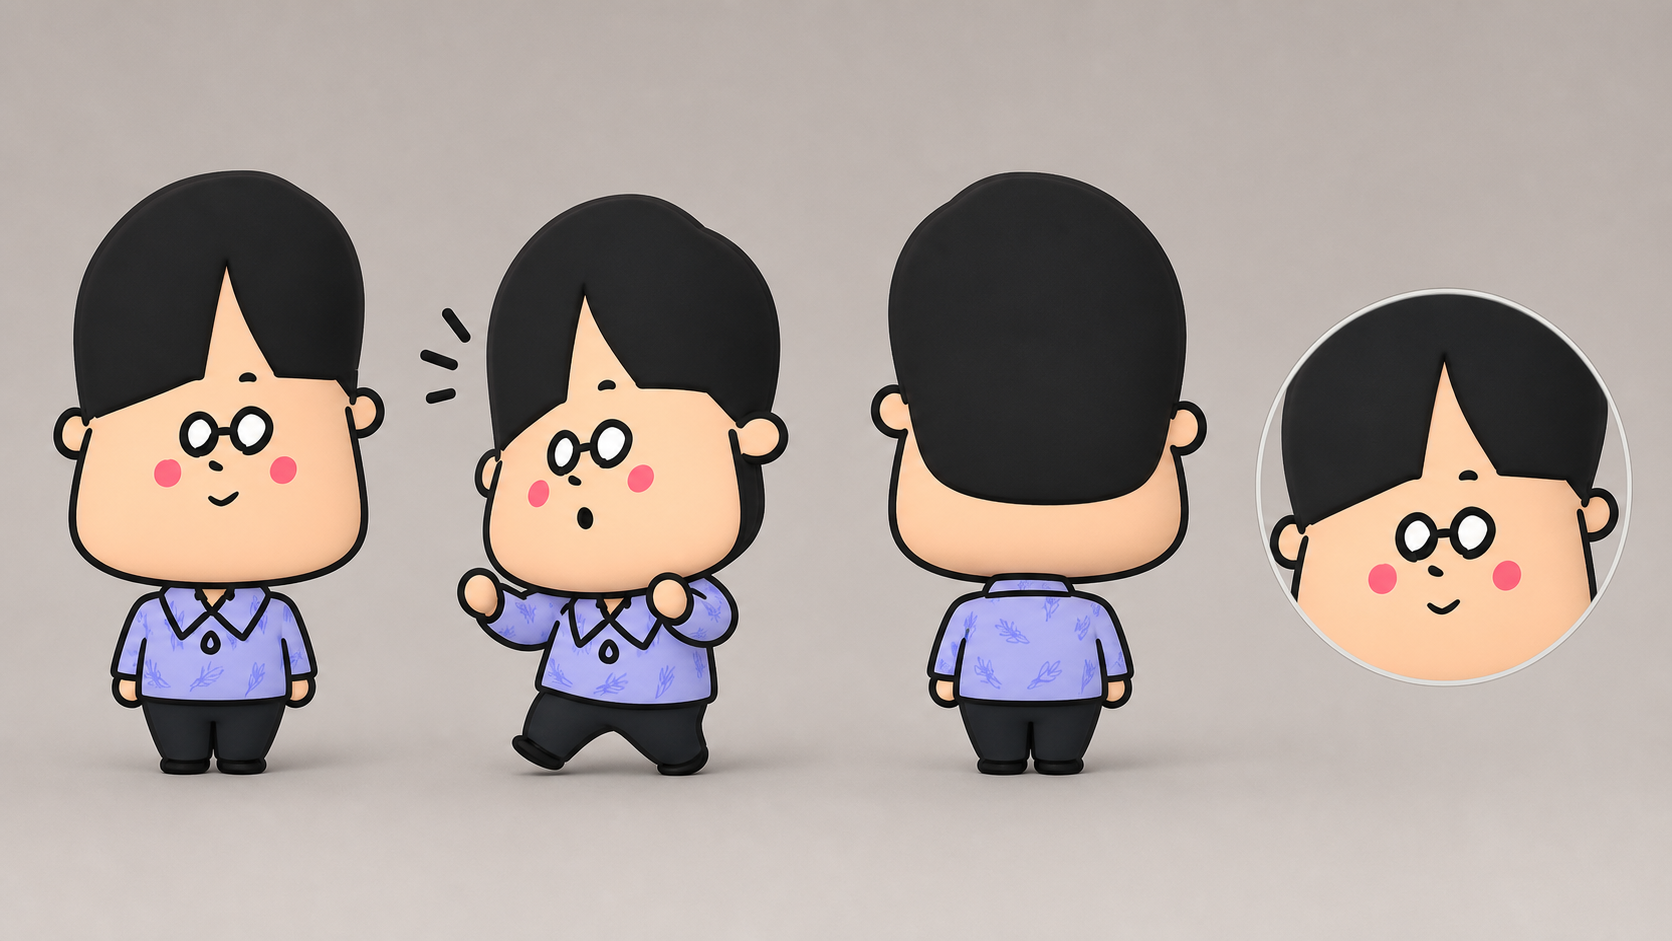
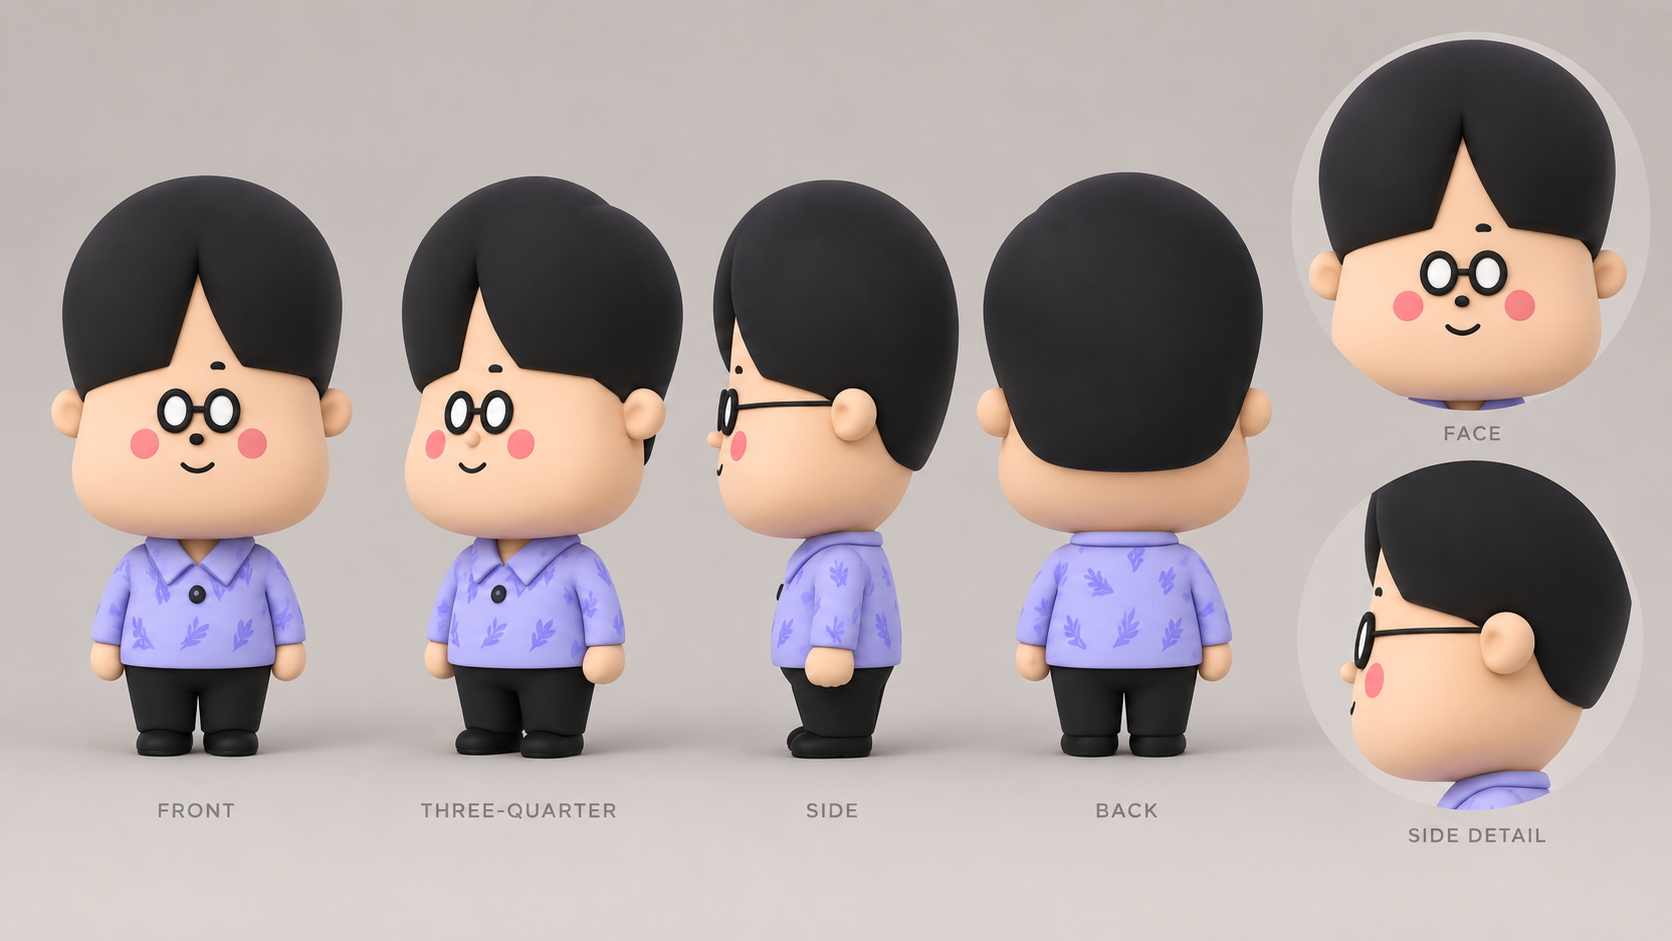
Remove outline geometry from Yametaro video character sheet

diff --git a/03_SCRIPTS/00_TEMPLATES/characters/source_prompts/character_yametaro_basic_sheet.md b/03_SCRIPTS/00_TEMPLATES/characters/source_prompts/character_yametaro_basic_sheet.md
@@ -1,0 +1,23 @@
+# やめ太郎・通常キャラクターシート（輪郭線なし）
+
+2026-09-09、ユーザー指定による更新。built-in image_gen使用。
+正本: `../character_yametaro_basic_sheet.png`
+
+## 目的と維持項目
+
+動画で顔の後ろが黒い板・帯になる現象を受け、2Dの黒い輪郭線を除去。顔・耳・顎・うなじを連続した肌色の立体として明示。黒髪と丸眼鏡は維持。人物同一性・頭身・紫の葉柄シャツを保ち、可愛さの増強や写実的人間化は行わない。
+正面・斜め・横・背面、正面顔アップ・横顔詳細。黒い頬縁や縦方向の眼鏡ストラップがないこと、横顔の肌色連続性を目視確認。動画生成時の安定性は未検証。
+
+## 履歴
+
+入力参照は更新前の通常シート。旧版はGit履歴およびエピソード65の`character_yametaro_basic_sheet.png`に残る。エピソード65のv1/v2入力・manifestは変更しない。次回制作では更新済みテンプレートを新しい入力名へコピーし、既存生成記録を上書きしない。
+旧toy_diorama_3d版にも濃色輪郭があるため、輪郭なし動画制作の代用参照にしない。
+
+## 生成プロンプト
+
+Edit the supplied Yametaro basic character reference into an updated definitive reusable character sheet for 3D video generation. Preserve this EXACT recognizable character and the existing proportions, do not redesign him or increase cuteness. The specific correction is to REMOVE ALL drawn black contour outlines and black edge extrusion from face, ears, jaw, neck, hands and shirt. Existing black outlines must NOT become black geometry, straps, backing plates or black surfaces on the side or behind the face.
+Identity: adult stylized character, same very large rounded black hairstyle with center-part triangular forehead opening, same wide rounded-rectangle peach face, black ROUND glasses with white lenses, same tiny nose and simple mouth, two pink circular cheeks, lavender purple leaf-pattern shirt, black trousers and shoes. Match actual head/body ratio, head silhouette, face proportions, limbs and clothing of reference. No larger eyes, no babyfication, no added chibi exaggeration.
+Render as fully volumetric clean matte stylized 3D with smooth peach-colored skin wrapping continuously around cheeks, jaw, temples, ears and nape. Face is part of one rounded solid head, not a peach flat sticker mounted on black hair. Natural scalp hair occupies upper and rear scalp only, with a clearly defined hairline ABOVE exposed lower nape. Black hair must NEVER form a rim around cheeks/jaw or a slab behind the lower face. Side views must show depth of peach cheek, peach ear, peach jaw and peach lower nape. Keep the original hairstyle volume, do not shorten or recolor hair. Real black eyeglass frames are retained; their thin temples travel horizontally toward ears, never vertically along jaw. Eyes/nose/mouth remain the simple reference features, NOT realistic human anatomy.
+Single landscape 16:9 clean studio reference sheet. Layout: four generous full-body views across left 75%, same scale: FRONT, THREE-QUARTER, strict SIDE looking left, BACK. Right 25% two large head closeups stacked: FACE and SIDE DETAIL. Side detail clearly establishes continuous peach skin behind cheek and below ear, natural hair boundary and thin horizontal glasses arm. No additional prop panels or floating isolated body parts. Whole bodies and head tops uncropped. Neutral slight smile and arms relaxed, no action poses. Labels only those specified in small unobtrusive gray letters, no decorative frame borders.
+Soft neutral light with broad fill from both sides so the back of the face and ears are clearly illuminated. Pale warm gray background. Mild ambient shading and contact shadows only, absolutely no black cel outlines, ink contour strokes, black edge bands, inverted-hull cartoon outline or heavy ambient occlusion on the head. Shirt folds/seams defined by shading and purple material, not black strokes. Black hair, glasses, small facial features, pants and shoes are intentional black objects and must stay black. The result must be faithful to the original design while eliminating 2D outline artifacts and ambiguous head geometry. No photorealistic skin, pores, stubble, individual realistic hairs, hypercute adaptation, extra character variants or story context.
+

diff --git a/02_CHARACTERS/06_Yametaro.md b/02_CHARACTERS/06_Yametaro.md
@@ -11,6 +11,7 @@
 作中の手配書表記は「YAMETARO」「やめ太郎」のことがある。
 人物同一性（唯一のハード条件）: `Yametaro.jpg`と同じキャラクター。顔、頭部形状、丸メガネ、デフォルメされた体格比率を識別基準にする。衣装、持ち物、表情、性格、口調、能力、役割、手配状況は固定しない。
 画像ファイル：Yametaro.jpg
+動画用通常シート：`03_SCRIPTS/00_TEMPLATES/characters/character_yametaro_basic_sheet.png`。2026-09-09更新の輪郭線なし版を使う。原画の黒い輪郭線を立体の黒い帯・板として再現せず、頬・耳・顎・うなじは肌色の連続した面として描く。黒髪と黒い丸眼鏡は維持し、シート以上に可愛さや頭身を誇張しない。過去制作の入力画像は履歴として維持する。
 声ファイル：Yametaro_voice.wav（Irodori-TTSの正典参照音声。既定seedは`VOICE_CAST.md`を参照）
 参照音源集：`02_CHARACTERS/voice_references/`（`Yametaro_ref_intro_mid.wav`、`Yametaro_ref_intro_short.wav`など）
 社内指名手配書：`../01_WORLD/props/yametaro_wanted_poster.png`
